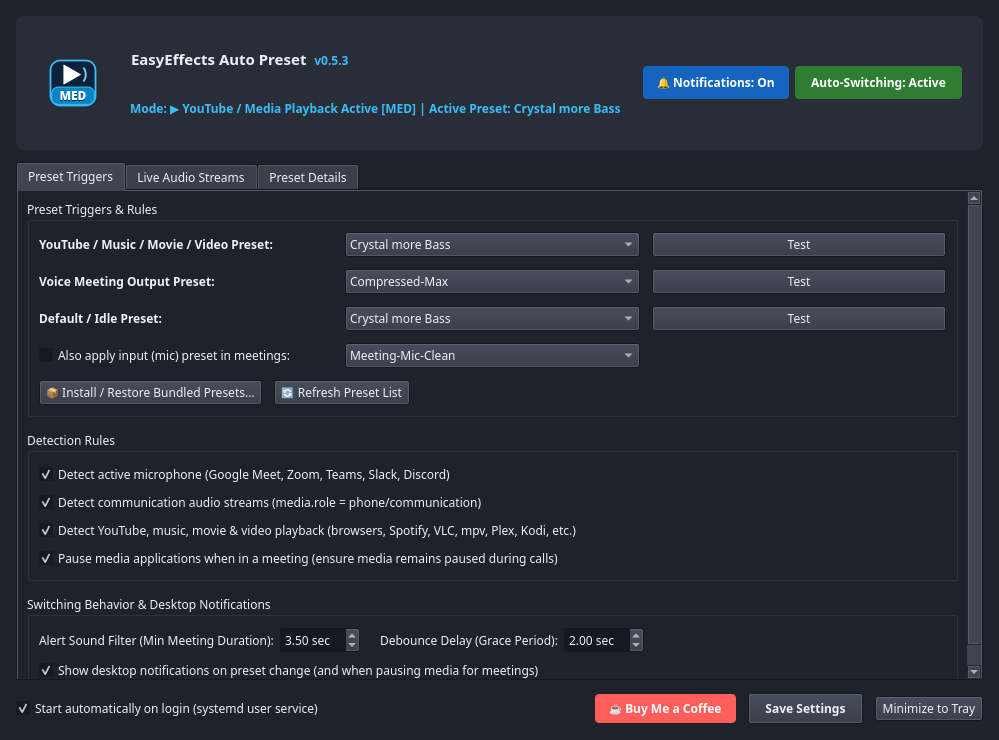
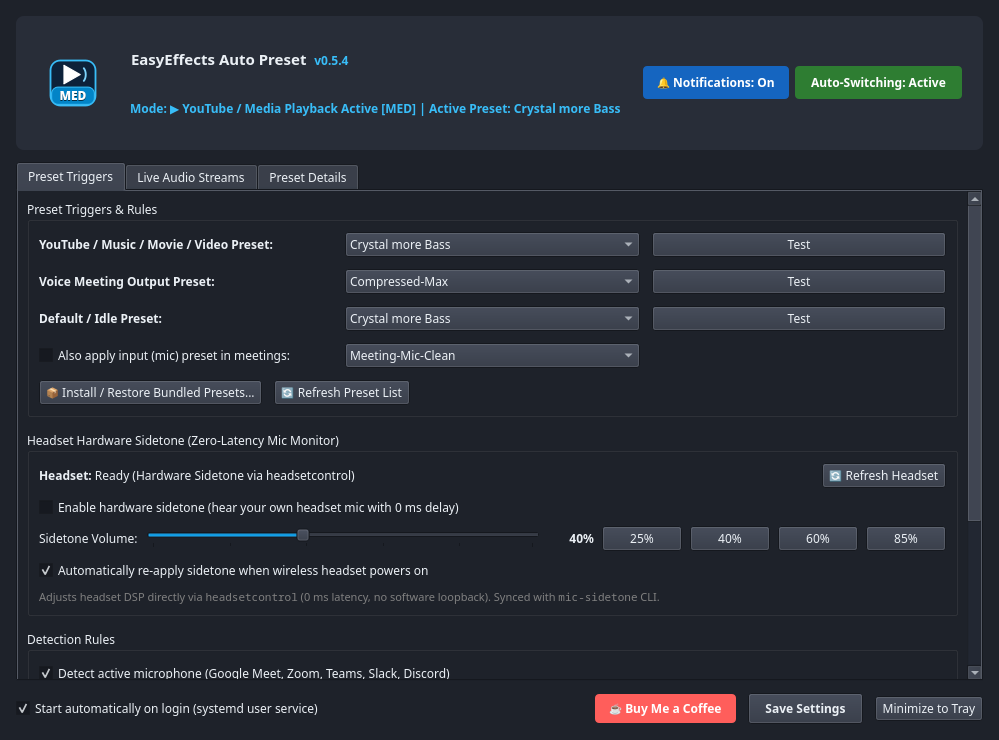
release: EasyEffects Auto Preset v0.5.4

diff --git a/python/easyeffects_auto_preset.py b/python/easyeffects_auto_preset.py
@@ -83,7 +83,7 @@ AUTOSTART_FILE = _XDG_CONFIG_HOME / "autostart" / "easyeffects-auto-preset.deskt
 APP_DESKTOP_FILE = _XDG_DATA_HOME / "applications" / "easyeffects-auto-preset.desktop"
 USER_SHARED_PRESETS_DIR = _XDG_DATA_HOME / "easyeffects-auto-preset" / "presets"
 
-APP_VERSION = "0.5.3"
+APP_VERSION = "0.5.4"
 GITHUB_RELEASES_API_URL = "https://api.github.com/repos/russellmilliner/easyeffects-auto-preset/releases/latest"
 GITHUB_RELEASES_PAGE_URL = "https://github.com/russellmilliner/easyeffects-auto-preset/releases"
 ALLOWED_DOWNLOAD_PREFIX = "https://github.com/russellmilliner/easyeffects-auto-preset/releases/download/"

diff --git a/README.md b/README.md
@@ -1,7 +1,7 @@
 # EasyEffects Auto Preset
 
-[![Version](https://img.shields.io/badge/Version-v0.5.3-0284c7?style=for-the-badge&logo=github)](https://github.com/russellmilliner/easyeffects-auto-preset/releases/tag/v0.5.3)
-[![Flatpak Bundle](https://img.shields.io/badge/Flatpak-Download_v0.5.3-4a90d9?style=for-the-badge&logo=flatpak&logoColor=white)](https://github.com/russellmilliner/easyeffects-auto-preset/releases/download/v0.5.3/easyeffects-auto-preset-v0.5.3-x86_64.flatpak)
+[![Version](https://img.shields.io/badge/Version-v0.5.4-0284c7?style=for-the-badge&logo=github)](https://github.com/russellmilliner/easyeffects-auto-preset/releases/tag/v0.5.4)
+[![Flatpak Bundle](https://img.shields.io/badge/Flatpak-Download_v0.5.4-4a90d9?style=for-the-badge&logo=flatpak&logoColor=white)](https://github.com/russellmilliner/easyeffects-auto-preset/releases/download/v0.5.4/easyeffects-auto-preset-v0.5.4-x86_64.flatpak)
 [![Platform: Linux x86_64](https://img.shields.io/badge/Platform-Linux%20x86__64-fcc624?style=for-the-badge&logo=linux&logoColor=black)](https://www.kernel.org/)
 [![Desktop: KDE Plasma 6](https://img.shields.io/badge/Desktop-KDE%20Plasma%206%20%2F%20Qt%206-1d99f3?style=for-the-badge&logo=kde&logoColor=white)](https://kde.org/plasma-desktop/)
 [![Audio: PipeWire](https://img.shields.io/badge/Audio-PipeWire%20%2F%20PulseAudio-e05d44?style=for-the-badge&logo=soundcharts&logoColor=white)](https://pipewire.org/)
@@ -50,19 +50,19 @@
 
 ---
 
-## 📥 Release & Downloads (`v0.5.3`)
+## 📥 Release & Downloads (`v0.5.4`)
 
 | Asset | Download Link | Description |
 | :--- | :--- | :--- |
-| **Flatpak Bundle (`x86_64`)** | [**`easyeffects-auto-preset-v0.5.3-x86_64.flatpak`**](https://github.com/russellmilliner/easyeffects-auto-preset/releases/download/v0.5.3/easyeffects-auto-preset-v0.5.3-x86_64.flatpak) ([SHA-256](https://github.com/russellmilliner/easyeffects-auto-preset/releases/download/v0.5.3/easyeffects-auto-preset-v0.5.3-x86_64.flatpak.sha256)) | Self-contained Flatpak bundle (`org.kde.Platform//6.11`) with bundled `PyQt6`, Rust daemon, GUI & presets |
-| **Linux Release Archive (`x86_64`)** | [**`easyeffects-auto-preset-v0.5.3-linux-x86_64.tar.gz`**](https://github.com/russellmilliner/easyeffects-auto-preset/releases/download/v0.5.3/easyeffects-auto-preset-v0.5.3-linux-x86_64.tar.gz) ([SHA-256](https://github.com/russellmilliner/easyeffects-auto-preset/releases/download/v0.5.3/easyeffects-auto-preset-v0.5.3-linux-x86_64.tar.gz.sha256)) | Native Rust daemon binary, PyQt6 GUI & tray script, custom EasyEffects presets, systemd user service & desktop entry |
-| **Standalone Rust Daemon (`x86_64`)** | [**`easyeffects-auto-preset-v0.5.3-x86_64`**](https://github.com/russellmilliner/easyeffects-auto-preset/releases/download/v0.5.3/easyeffects-auto-preset-v0.5.3-x86_64) ([SHA-256](https://github.com/russellmilliner/easyeffects-auto-preset/releases/download/v0.5.3/easyeffects-auto-preset-v0.5.3-x86_64.sha256)) | Standalone compiled Rust CLI/daemon binary |
+| **Flatpak Bundle (`x86_64`)** | [**`easyeffects-auto-preset-v0.5.4-x86_64.flatpak`**](https://github.com/russellmilliner/easyeffects-auto-preset/releases/download/v0.5.4/easyeffects-auto-preset-v0.5.4-x86_64.flatpak) ([SHA-256](https://github.com/russellmilliner/easyeffects-auto-preset/releases/download/v0.5.4/easyeffects-auto-preset-v0.5.4-x86_64.flatpak.sha256)) | Self-contained Flatpak bundle (`org.kde.Platform//6.11`) with bundled `PyQt6`, Rust daemon, GUI & presets |
+| **Linux Release Archive (`x86_64`)** | [**`easyeffects-auto-preset-v0.5.4-linux-x86_64.tar.gz`**](https://github.com/russellmilliner/easyeffects-auto-preset/releases/download/v0.5.4/easyeffects-auto-preset-v0.5.4-linux-x86_64.tar.gz) ([SHA-256](https://github.com/russellmilliner/easyeffects-auto-preset/releases/download/v0.5.4/easyeffects-auto-preset-v0.5.4-linux-x86_64.tar.gz.sha256)) | Native Rust daemon binary, PyQt6 GUI & tray script, custom EasyEffects presets, systemd user service & desktop entry |
+| **Standalone Rust Daemon (`x86_64`)** | [**`easyeffects-auto-preset-v0.5.4-x86_64`**](https://github.com/russellmilliner/easyeffects-auto-preset/releases/download/v0.5.4/easyeffects-auto-preset-v0.5.4-x86_64) ([SHA-256](https://github.com/russellmilliner/easyeffects-auto-preset/releases/download/v0.5.4/easyeffects-auto-preset-v0.5.4-x86_64.sha256)) | Standalone compiled Rust CLI/daemon binary |
 
 ### Quick Flatpak Install (from GitHub Release)
 
 ```bash
-curl -LO https://github.com/russellmilliner/easyeffects-auto-preset/releases/download/v0.5.3/easyeffects-auto-preset-v0.5.3-x86_64.flatpak
-flatpak install --user -y easyeffects-auto-preset-v0.5.3-x86_64.flatpak
+curl -LO https://github.com/russellmilliner/easyeffects-auto-preset/releases/download/v0.5.4/easyeffects-auto-preset-v0.5.4-x86_64.flatpak
+flatpak install --user -y easyeffects-auto-preset-v0.5.4-x86_64.flatpak
 flatpak run io.github.russellmilliner.easyeffects_auto_preset
 ```
 

diff --git a/CHANGELOG.md b/CHANGELOG.md
@@ -2,6 +2,24 @@
 
 All notable changes and bumped dependencies for `russellmilliner/easyeffects-auto-preset` are documented in this file.
 
+## [v0.5.4](https://github.com/russellmilliner/easyeffects-auto-preset/releases/tag/v0.5.4) — 2026-11-15
+
+### Highlights
+- Add zero-latency hardware headset sidetone controls (Tray, Settings UI & mic-sidetone CLI via HeadsetControl) and ignore KDE Plasma volume/mixer VU meter streams.
+
+### Commits
+- feat(sidetone): add zero-latency hardware headset sidetone controls and mic-sidetone CLI (93bd25a)
+- chore(deps): update dependencies (itoa 1.0.19, syn 3.0.10) (2ebbbea)
+- style(rust): apply rustfmt formatting to src/main.rs (4d661c2)
+- fix(daemon): ignore KDE Plasma volume meter and desktop mixer source streams (238300b)
+
+### 📦 Bumped Dependencies (2 packages)
+
+| Package | Previous | Updated | Scope |
+| :--- | :--- | :--- | :--- |
+| `itoa` | `1.0.18` | **`1.0.19`** | Lockfile (`Cargo.lock`) |
+| `syn` | `3.0.9` | **`3.0.10`** | Lockfile (`Cargo.lock`) |
+
 ## [v0.5.3-deps](https://github.com/russellmilliner/easyeffects-auto-preset/releases/tag/v0.5.3-deps) — 2026-11-09
 
 ### 📦 Bumped Dependencies (2 packages)
